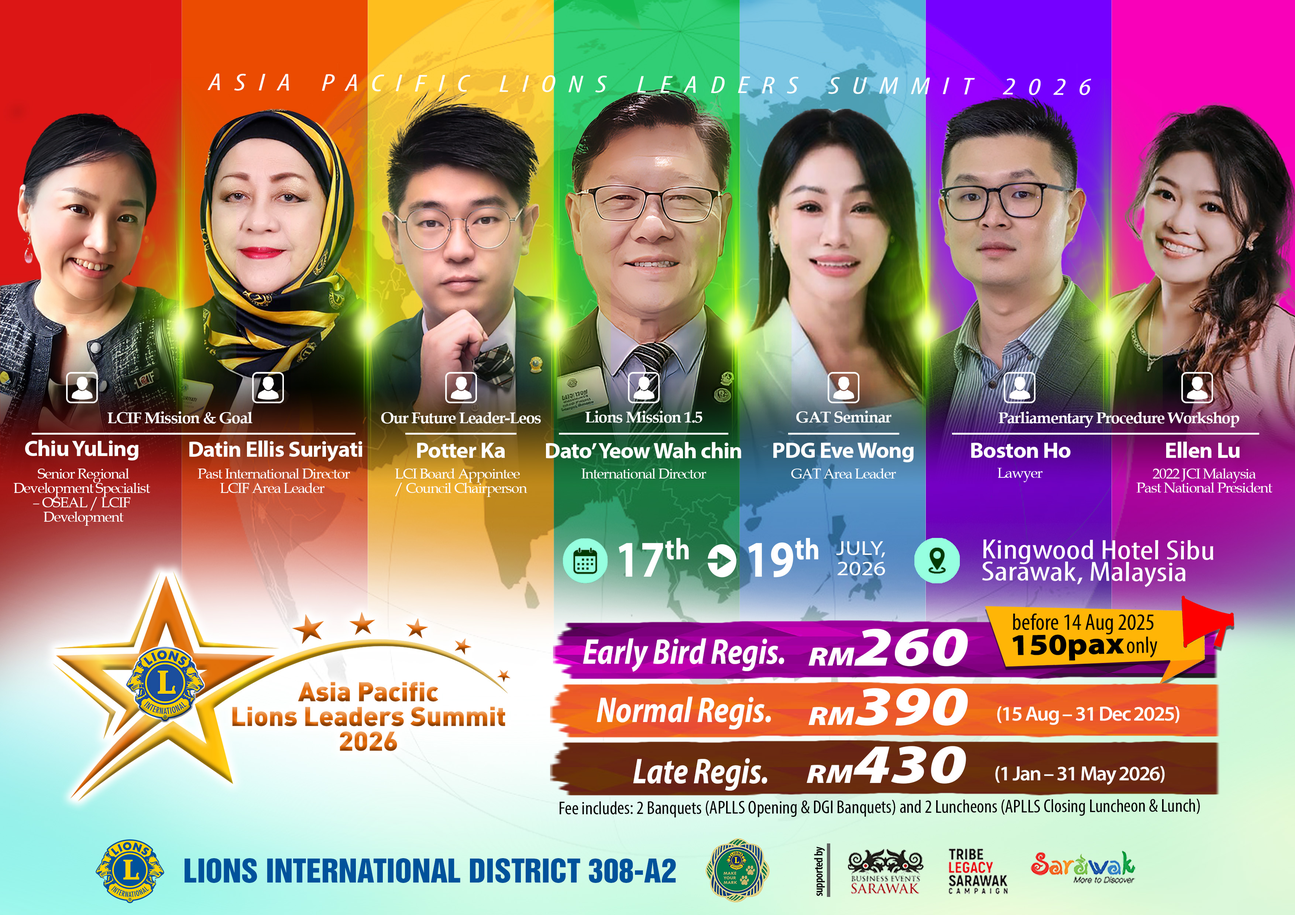
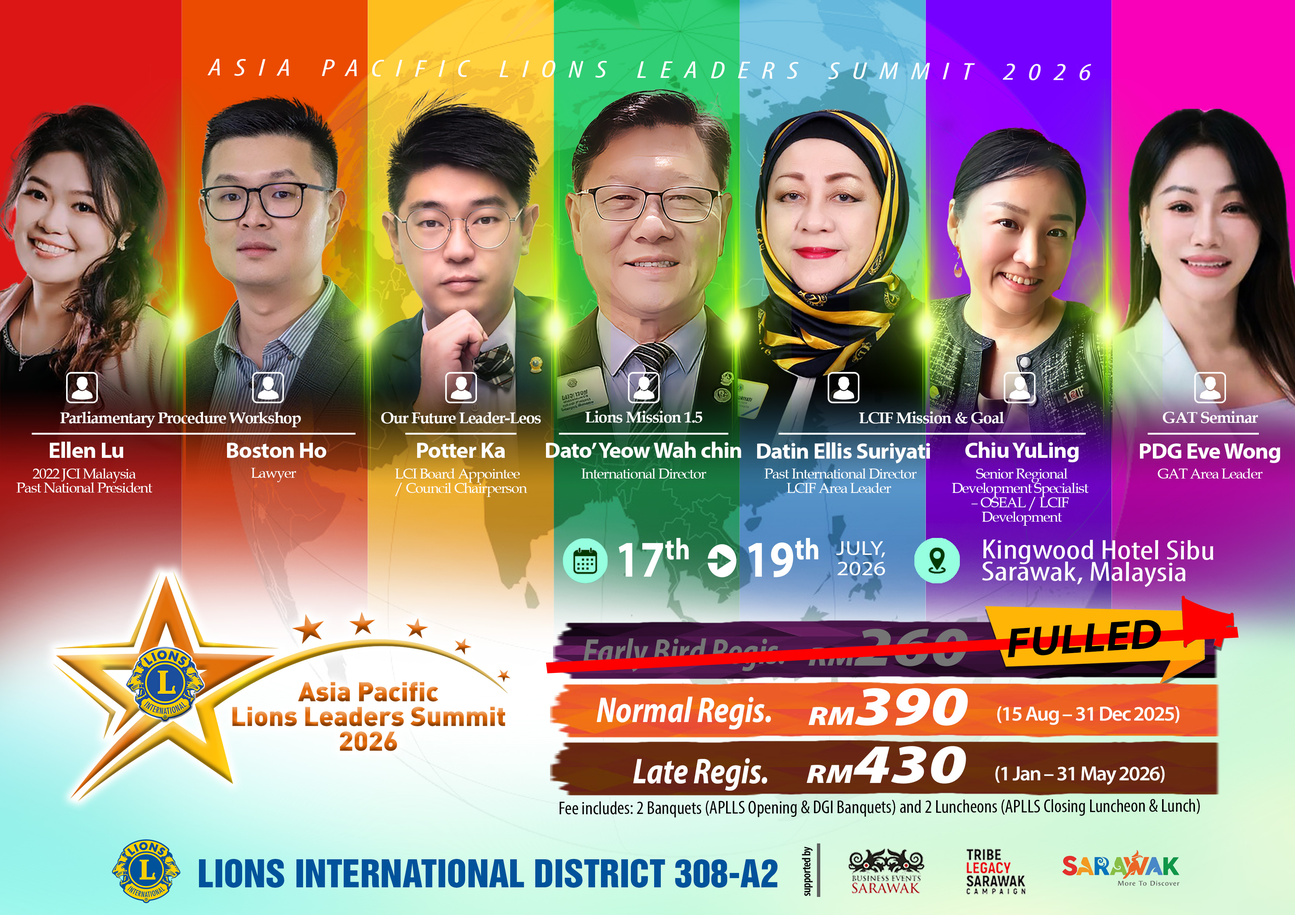
yes

diff --git a/index.html b/index.html
@@ -145,19 +145,19 @@
                     <p class="speaker-title">LCI Board Appointee/Council Chairperson</p>
                     <p class="speaker-bio">Speaker for Our Future Leos</p>
                 </div>
-                <div class="speaker-card">
-                    <img src="assets/eve wong.png" alt="Eve Wong" class="speaker-image">
-                    <h3 class="speaker-name">PDG Eve Wong</h3>
-                    <p class="speaker-title">GAT Area Leader</p>
-                    <p class="speaker-bio">Speaker for GAT Seminar</p>
-                </div>
-                <div class="speaker-card">
+                   <div class="speaker-card">
                     <img src="assets/ellis.png" alt="Ellis" class="speaker-image">
                     <h3 class="speaker-name">PID Datin Ellis Suriyati</h3>
                     <p class="speaker-title">Past International Director / LCIF Area Leader </p>
                     <p class="speaker-bio">Speaker for LCIF Mission & Goal</p>
                 </div>
                 <div class="speaker-card">
+                    <img src="assets/eve wong.png" alt="Eve Wong" class="speaker-image">
+                    <h3 class="speaker-name">PDG Eve Wong</h3>
+                    <p class="speaker-title">GAT Area Leader</p>
+                    <p class="speaker-bio">Speaker for GAT Seminar</p>
+                </div>
+                             <div class="speaker-card">
                     <img src="assets/Chui Ling.png" alt="Boston Ellen" class="speaker-image">
                     <h3 class="speaker-name">Chiu YuLing</h3>
                     <p class="speaker-title">Senior Regional Development Specialist – OSEAL / LCIF Development</p>
@@ -370,10 +370,7 @@
                     </div>
                     <span class="counter-remaining" id="earlyBirdRemaining">- remaining</span>
                 </div>
-                <div class="counter-item">
-                    <span class="counter-number" id="recentCount">-</span>
-                    <span class="counter-label">Last 24h</span>
-                </div>
+
             </div>
             
             <div class="register-content">
@@ -555,9 +552,9 @@
                                     <label for="registrationType">Registration Type *</label>
                                     <select id="registrationType" name="registrationType" required>
                                         <option value="">Select Package</option>
-                                        <option value="early-bird">Early Bird 🐦 - RM260 (Until 30 Sept 2025) - Limited 150 pax only</option>
-                                        <option value="standard">Standard - RM390 (From 1 Oct 2025)</option>
-                                        <option value="late">Late - RM430 (After 1 June 2026)</option>
+                                        <option value="early-bird">Early Bird 🐦 - RM260 (Until 14 Aug 2025) - Limited 150 pax only</option>
+                        <option value="standard">Standard - RM390 (15 Aug 2025 - 31 Dec 2025)</option>
+                        <option value="late">Late - RM430 (1 Jan 2026 - 31 May 2026)</option>
                                     </select>
                                 </div>
                                 <div class="form-group">
@@ -749,38 +746,8 @@
         <div class="container">
             <h2 class="section-title">Our Sponsors</h2>
             <div class="sponsors-content">
-                <div class="sponsor-tier">
-                    <h3>Platinum Sponsors</h3>
-                    <div class="sponsor-logos platinum">
-                        <div class="sponsor-placeholder">
-                            <p>Platinum Sponsor</p>
-                        </div>
-                    </div>
-                </div>
-                <div class="sponsor-tier">
-                    <h3>Gold Sponsors</h3>
-                    <div class="sponsor-logos gold">
-                        <div class="sponsor-placeholder">
-                            <p>Gold Sponsor</p>
-                        </div>
-                        <div class="sponsor-placeholder">
-                            <p>Gold Sponsor</p>
-                        </div>
-                    </div>
-                </div>
-                <div class="sponsor-tier">
-                    <h3>Silver Sponsors</h3>
-                    <div class="sponsor-logos silver">
-                        <div class="sponsor-placeholder">
-                            <p>Silver Sponsor</p>
-                        </div>
-                        <div class="sponsor-placeholder">
-                            <p>Silver Sponsor</p>
-                        </div>
-                        <div class="sponsor-placeholder">
-                            <p>Silver Sponsor</p>
-                        </div>
-                    </div>
+                <div class="sponsor-image-container">
+                    <img src="assets/sponsor.png" alt="APLLS 2026 Sponsors" class="sponsor-image">
                 </div>
             </div>
         </div>

diff --git a/script.js b/script.js
@@ -193,6 +193,62 @@ function toggleFaq(element) {
     }
 }
 
+// Date-based pricing logic
+function updatePricingOptions() {
+    const registrationSelect = document.getElementById('registrationType');
+    if (!registrationSelect) return;
+    
+    const currentDate = new Date();
+    const earlyBirdEnd = new Date('2025-08-14T23:59:59');
+    const standardEnd = new Date('2025-12-31T23:59:59');
+    const lateEnd = new Date('2026-05-31T23:59:59');
+    
+    // Get all options
+    const earlyBirdOption = registrationSelect.querySelector('option[value="early-bird"]');
+    const standardOption = registrationSelect.querySelector('option[value="standard"]');
+    const lateOption = registrationSelect.querySelector('option[value="late"]');
+    
+    // Reset all options to visible
+    if (earlyBirdOption) earlyBirdOption.style.display = 'block';
+    if (standardOption) standardOption.style.display = 'block';
+    if (lateOption) lateOption.style.display = 'block';
+    
+    // Hide options based on current date
+    if (currentDate > earlyBirdEnd) {
+        // After August 14, 2025 - hide early bird
+        if (earlyBirdOption) {
+            earlyBirdOption.style.display = 'none';
+            // If early bird is currently selected, reset selection
+            if (registrationSelect.value === 'early-bird') {
+                registrationSelect.value = '';
+            }
+        }
+    }
+    
+    if (currentDate > standardEnd) {
+        // After December 31, 2025 - hide standard, only show late
+        if (standardOption) {
+            standardOption.style.display = 'none';
+            if (registrationSelect.value === 'standard') {
+                registrationSelect.value = '';
+            }
+        }
+    }
+    
+    if (currentDate > lateEnd) {
+        // After May 31, 2026 - hide late registration
+        if (lateOption) {
+            lateOption.style.display = 'none';
+            if (registrationSelect.value === 'late') {
+                registrationSelect.value = '';
+            }
+        }
+    }
+    
+    // Update total amount after option changes
+    updateTotalAmount();
+}
+
 // Update total amount calculation
 function updateTotalAmount() {
     const registrationSelect = document.getElementById('registrationType');
@@ -319,13 +375,11 @@ async function fetchRegistrationCounts() {
 function updateCounterDisplay(data) {
     const totalCountEl = document.getElementById('totalCount');
     const earlyBirdCountEl = document.getElementById('earlyBirdCount');
-    const recentCountEl = document.getElementById('recentCount');
     const earlyBirdRemainingEl = document.getElementById('earlyBirdRemaining');
     const progressBarEl = document.getElementById('earlyBirdProgress');
 
     if (totalCountEl) totalCountEl.textContent = data.counts?.total || 0;
     if (earlyBirdCountEl) earlyBirdCountEl.textContent = data.counts?.earlyBird || 0;
-    if (recentCountEl) recentCountEl.textContent = data.counts?.recent24h || 0;
     if (earlyBirdRemainingEl) earlyBirdRemainingEl.textContent = `${data.earlyBird?.remaining || 0} remaining`;
     
     if (progressBarEl) {
@@ -358,6 +412,8 @@ function startLiveCountUpdates() {
 
 // Initialize total calculation on page load
 document.addEventListener('DOMContentLoaded', function() {
+    // Initialize date-based pricing options
+    updatePricingOptions();
     // Initialize total calculation
     updateTotalAmount();
     startLiveCountUpdates(); // Start live count updates

diff --git a/styles.css b/styles.css
@@ -1636,35 +1636,24 @@ button[type="submit"] {
     background-color: white;
 }
 
-.sponsor-level {
-    margin-bottom: 40px;
-}
-
-.sponsor-level h3 {
-    text-align: center;
-    margin-bottom: 20px;
-    font-size: 1.3rem;
-    color: var(--gray-color);
-}
-
-.sponsor-logos {
+.sponsor-image-container {
     display: flex;
     justify-content: center;
     align-items: center;
-    flex-wrap: wrap;
-    gap: 30px;
+    padding: 20px;
 }
 
-.sponsor-logos img {
-    height: 60px;
-    filter: grayscale(100%);
-    opacity: 0.7;
+.sponsor-image {
+    max-width: 100%;
+    height: auto;
+    border-radius: 10px;
+    box-shadow: var(--box-shadow);
     transition: var(--transition);
 }
 
-.sponsor-logos img:hover {
-    filter: grayscale(0);
-    opacity: 1;
+.sponsor-image:hover {
+    transform: scale(1.02);
+    box-shadow: 0 8px 25px rgba(0, 0, 0, 0.15);
 }
 
 .become-sponsor {

diff --git a/netlify/functions/registration-stats.js b/netlify/functions/registration-stats.js
@@ -52,24 +52,9 @@ exports.handler = async (event, context) => {
       throw earlyBirdError;
     }
 
-    // Get registrations from last 24 hours
-    const yesterday = new Date();
-    yesterday.setDate(yesterday.getDate() - 1);
-    
-    const { count: recentCount, error: recentError } = await supabase
-      .from('registrations')
-      .select('*', { count: 'exact', head: true })
-      .gte('created_at', yesterday.toISOString());
-
-    if (recentError) {
-      console.error('Error fetching recent count:', recentError);
-      throw recentError;
-    }
-
     const stats = {
       totalCount: totalCount || 0,
       earlyBirdCount: earlyBirdCount || 0,
-      recentCount: recentCount || 0,
       earlyBirdLimit: 150, // Set your early bird limit here
       earlyBirdRemaining: Math.max(0, 150 - (earlyBirdCount || 0))
     };
